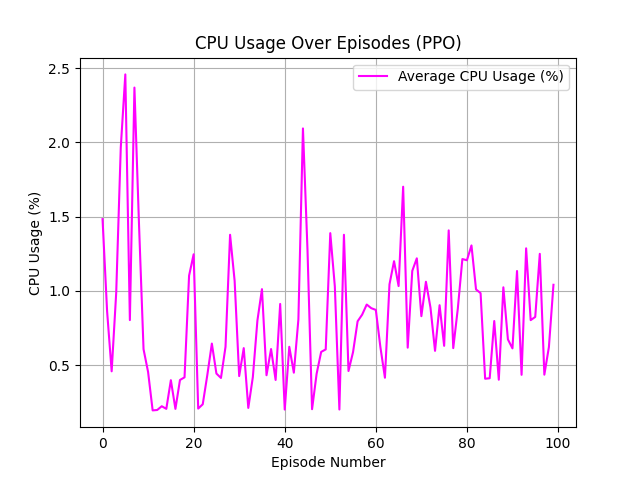
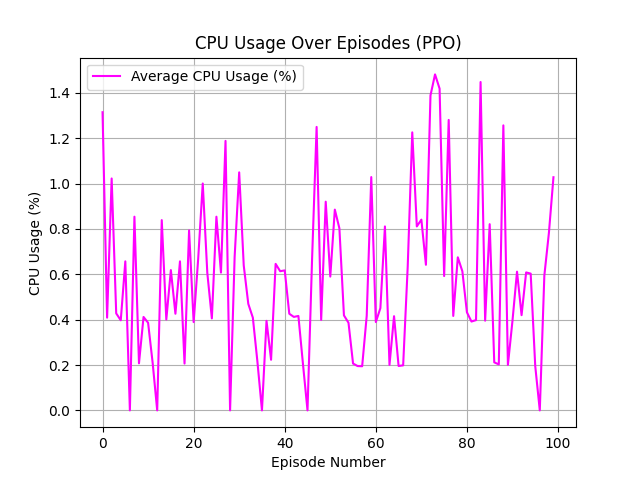
add stats box to plots

diff --git a/plot_results.py b/plot_results.py
@@ -1,9 +1,12 @@
 import matplotlib.pyplot as plt
 import os
+import numpy as np
 
-def plot_results(episodes, max_deviations, avg_deviations, max_response_times, avg_response_times,
-                 max_gimbal_smoothness, avg_gimbal_smoothness, max_throttle_smoothness,
-                 avg_throttle_smoothness, avg_cpu_usages, time_taken_to_land, model_type, landing_successes):
+def plot_results(episodes, max_deviations, avg_deviations, min_deviations,
+                 max_response_times, avg_response_times, min_response_times,
+                 max_gimbal_smoothness, avg_gimbal_smoothness, min_gimbal_smoothness,
+                 max_throttle_smoothness, avg_throttle_smoothness, min_throttle_smoothness,
+                 avg_cpu_usages, time_taken_to_land, model_type, landing_successes):
     """
     Plot the results of the evaluation for either PPO or FSM models.
 
@@ -11,12 +14,16 @@ def plot_results(episodes, max_deviations, avg_deviations, max_response_times, a
     - episodes: List of episode numbers.
     - max_deviations: List of maximum angle deviations per episode.
     - avg_deviations: List of average angle deviations per episode.
-    - max_response_times: List of maximum response times for each episode.
-    - avg_response_times: List of average response times for each episode.
+    - min_deviations: List of minimum angle deviations per episode.
+    - max_response_times: List of maximum response times per episode.
+    - avg_response_times: List of average response times per episode.
+    - min_response_times: List of minimum response times per episode.
     - max_gimbal_smoothness: List of maximum gimbal changes per episode.
     - avg_gimbal_smoothness: List of average gimbal changes per episode.
+    - min_gimbal_smoothness: List of minimum gimbal changes per episode.
     - max_throttle_smoothness: List of maximum throttle changes per episode.
     - avg_throttle_smoothness: List of average throttle changes per episode.
+    - min_throttle_smoothness: List of minimum throttle changes per episode.
     - avg_cpu_usages: List of average CPU usage percentages per episode.
     - time_taken_to_land: List of time taken to land per episode.
     - model_type: String specifying the model type ('PPO' or 'FSM').
@@ -30,53 +37,82 @@ def plot_results(episodes, max_deviations, avg_deviations, max_response_times, a
     title_suffix = f'Over Episodes ({model_type})'
     max_label_prefix = 'Max' if model_type == 'FSM' else 'Max'
     avg_label_prefix = 'Average'
+    min_label_prefix = 'Min'
 
     # Plotting stability over episodes
     plt.figure()
     plt.plot(episodes, max_deviations, label=f'{max_label_prefix} Angle Deviation Used During Episode', color='red')
     plt.plot(episodes, avg_deviations, label=f'{avg_label_prefix} Angle Deviation', color='blue')
+    plt.plot(episodes, min_deviations, label=f'{min_label_prefix} Angle Deviation Used During Episode', color='green')
     plt.title(f'Rocket Stability {title_suffix}')
     plt.xlabel('Episode Number')
     plt.ylabel('Angle Deviation (radians)')
     plt.grid(True)
     plt.legend()
-    plt.savefig(os.path.join(output_dir, 'stability_max_avg_over_episodes.png'))
+    plt.savefig(os.path.join(output_dir, 'stability_max_avg_min_over_episodes.png'))
+
+    # Adding statistics box
+    stats_text = (f'Mean: {np.mean(avg_deviations):.2f}\n'
+                  f'Standard Deviation: {np.std(avg_deviations):.2f}\n'
+                  f'Variance: {np.var(avg_deviations):.2f}')
+    plt.gcf().text(0.15, 0.7, stats_text, bbox=dict(facecolor='white', alpha=0.5))
     plt.show()
 
     # Plotting response time over episodes
     plt.figure()
     plt.plot(episodes, max_response_times, label=f'{max_label_prefix} Response Time Used During Episode', color='orange')
     plt.plot(episodes, avg_response_times, label=f'{avg_label_prefix} Response Time', color='green')
+    plt.plot(episodes, min_response_times, label=f'{min_label_prefix} Response Time Used During Episode', color='blue')
     plt.title(f'Rocket Response Time {title_suffix}')
     plt.xlabel('Episode Number')
     plt.ylabel('Response Time (seconds)')
     plt.grid(True)
     plt.legend()
-    plt.savefig(os.path.join(output_dir, 'response_time_max_avg_over_episodes.png'))
+    plt.savefig(os.path.join(output_dir, 'response_time_max_avg_min_over_episodes.png'))
+
+    # Adding statistics box
+    stats_text = (f'Mean: {np.mean(avg_response_times):.2f}\n'
+                  f'Standard Deviation: {np.std(avg_response_times):.2f}\n'
+                  f'Variance: {np.var(avg_response_times):.2f}')
+    plt.gcf().text(0.15, 0.7, stats_text, bbox=dict(facecolor='white', alpha=0.5))
     plt.show()
 
     # Plotting gimbal smoothness over episodes
     plt.figure()
     plt.plot(episodes, max_gimbal_smoothness, label=f'{max_label_prefix} Gimbal Angle Used During Episode (radians)', color='purple')
     plt.plot(episodes, avg_gimbal_smoothness, label=f'{avg_label_prefix} Change in Gimbal Angle (radians)', color='cyan')
+    plt.plot(episodes, min_gimbal_smoothness, label=f'{min_label_prefix} Gimbal Angle Used During Episode (radians)', color='green')
     plt.title(f'Rocket Gimbal Control Smoothness {title_suffix}')
     plt.xlabel('Episode Number')
     plt.ylabel('Change in Gimbal Angle (radians)')
     plt.grid(True)
     plt.legend()
-    plt.savefig(os.path.join(output_dir, 'gimbal_smoothness_max_avg_over_episodes.png'))
+    plt.savefig(os.path.join(output_dir, 'gimbal_smoothness_max_avg_min_over_episodes.png'))
+
+    # Adding statistics box
+    stats_text = (f'Mean: {np.mean(avg_gimbal_smoothness):.2f}\n'
+                  f'Standard Deviation: {np.std(avg_gimbal_smoothness):.2f}\n'
+                  f'Variance: {np.var(avg_gimbal_smoothness):.2f}')
+    plt.gcf().text(0.15, 0.7, stats_text, bbox=dict(facecolor='white', alpha=0.5))
     plt.show()
 
     # Plotting throttle smoothness over episodes
     plt.figure()
     plt.plot(episodes, max_throttle_smoothness, label=f'{max_label_prefix} Throttle Setting Used During Episode', color='brown')
     plt.plot(episodes, avg_throttle_smoothness, label=f'{avg_label_prefix} Change in Throttle Setting', color='orange')
+    plt.plot(episodes, min_throttle_smoothness, label=f'{min_label_prefix} Throttle Setting Used During Episode', color='green')
     plt.title(f'Rocket Throttle Control Smoothness {title_suffix}')
     plt.xlabel('Episode Number')
     plt.ylabel('Change in Throttle Setting')
     plt.grid(True)
     plt.legend()
-    plt.savefig(os.path.join(output_dir, 'throttle_smoothness_max_avg_over_episodes.png'))
+    plt.savefig(os.path.join(output_dir, 'throttle_smoothness_max_avg_min_over_episodes.png'))
+
+    # Adding statistics box
+    stats_text = (f'Mean: {np.mean(avg_throttle_smoothness):.2f}\n'
+                  f'Standard Deviation: {np.std(avg_throttle_smoothness):.2f}\n'
+                  f'Variance: {np.var(avg_throttle_smoothness):.2f}')
+    plt.gcf().text(0.15, 0.7, stats_text, bbox=dict(facecolor='white', alpha=0.5))
     plt.show()
 
     # Plotting CPU usage over episodes
@@ -88,6 +124,12 @@ def plot_results(episodes, max_deviations, avg_deviations, max_response_times, a
     plt.grid(True)
     plt.legend()
     plt.savefig(os.path.join(output_dir, 'cpu_usage_over_episodes.png'))
+
+    # Adding statistics box
+    stats_text = (f'Mean: {np.mean(avg_cpu_usages):.2f}\n'
+                  f'Standard Deviation: {np.std(avg_cpu_usages):.2f}\n'
+                  f'Variance: {np.var(avg_cpu_usages):.2f}')
+    plt.gcf().text(0.15, 0.7, stats_text, bbox=dict(facecolor='white', alpha=0.5))
     plt.show()
 
     # Plotting time taken to land over episodes
@@ -99,6 +141,12 @@ def plot_results(episodes, max_deviations, avg_deviations, max_response_times, a
     plt.grid(True)
     plt.legend()
     plt.savefig(os.path.join(output_dir, 'time_taken_to_land_over_episodes.png'))
+
+    # Adding statistics box
+    stats_text = (f'Mean: {np.mean(time_taken_to_land):.2f}\n'
+                  f'Standard Deviation: {np.std(time_taken_to_land):.2f}\n'
+                  f'Variance: {np.var(time_taken_to_land):.2f}')
+    plt.gcf().text(0.15, 0.7, stats_text, bbox=dict(facecolor='white', alpha=0.5))
     plt.show()
 
     # Plotting landing successes and failures

diff --git a/eval_ppo.py b/eval_ppo.py
@@ -35,12 +35,16 @@ def evaluate_ppo_model(num_episodes=100):
     episodes = []
     max_deviations = []  # List to store the maximum deviations for each episode
     avg_deviations = []  # List to store the average deviations for each episode
+    min_deviations = []  # List to store the minimum deviations for each episode
     max_response_times = []  # List to store the maximum response times for each episode
     avg_response_times = []  # List to store the average response times for each episode
+    min_response_times = []  # List to store the minimum response times for each episode
     max_gimbal_angles = []  # List to store the maximum gimbal angles for each episode
     avg_gimbal_angles = []  # List to store the average gimbal angles for each episode
+    min_gimbal_angles = []  # List to store the minimum gimbal angles for each episode
     max_throttle_settings = []  # List to store the maximum throttle settings for each episode
     avg_throttle_settings = []  # List to store the average throttle settings for each episode
+    min_throttle_settings = []  # List to store the minimum throttle settings for each episode
     avg_cpu_usages = []  # List to store average CPU usage for each episode
     time_taken_to_land = []  # List to store the time taken to land in seconds for each episode
     landing_successes = []  # List to store landing success for each episode
@@ -112,44 +116,55 @@ def evaluate_ppo_model(num_episodes=100):
         # Record landing success
         landing_successes.append(landed)
 
-        # Record the max and average deviations for the episode
+        # Record the max, min, and average deviations for the episode
         max_deviation = max(episode_deviations)
         avg_deviation = np.mean(episode_deviations)
+        min_deviation = min(episode_deviations)
         max_deviations.append(max_deviation)
         avg_deviations.append(avg_deviation)
+        min_deviations.append(min_deviation)
 
-        # Record the max and average response times for the episode
+        # Record the max, min, and average response times for the episode
         if episode_response_times:
             max_response_time = max(episode_response_times)
             avg_response_time = np.mean(episode_response_times)
+            min_response_time = min(episode_response_times)
         else:
             max_response_time = 0
             avg_response_time = 0
+            min_response_time = 0
 
         max_response_times.append(max_response_time)
         avg_response_times.append(avg_response_time)
+        min_response_times.append(min_response_time)
 
-        # Record the max and average gimbal angles for the episode
+        # Record the max, min, and average gimbal angles for the episode
         if episode_gimbal_angles:
             max_gimbal_angle = max(episode_gimbal_angles)
             avg_gimbal_angle = np.mean(episode_gimbal_angles)
+            min_gimbal_angle = min(episode_gimbal_angles)
         else:
             max_gimbal_angle = 0
             avg_gimbal_angle = 0
+            min_gimbal_angle = 0
 
         max_gimbal_angles.append(max_gimbal_angle)
         avg_gimbal_angles.append(avg_gimbal_angle)
+        min_gimbal_angles.append(min_gimbal_angle)
 
-        # Record the max and average throttle settings for the episode
+        # Record the max, min, and average throttle settings for the episode
         if episode_throttle_settings:
             max_throttle_setting = max(episode_throttle_settings)
             avg_throttle_setting = np.mean(episode_throttle_settings)
+            min_throttle_setting = min(episode_throttle_settings)
         else:
             max_throttle_setting = 0
             avg_throttle_setting = 0
+            min_throttle_setting = 0
 
         max_throttle_settings.append(max_throttle_setting)
         avg_throttle_settings.append(avg_throttle_setting)
+        min_throttle_settings.append(min_throttle_setting)
 
         # Record the average CPU usage for the episode
         avg_cpu_usages.append(np.mean(cpu_usages))
@@ -166,12 +181,16 @@ def evaluate_ppo_model(num_episodes=100):
         episodes=episodes,
         max_deviations=max_deviations,
         avg_deviations=avg_deviations,
+        min_deviations=min_deviations,
         max_response_times=max_response_times,
         avg_response_times=avg_response_times,
+        min_response_times=min_response_times,
         max_gimbal_smoothness=max_gimbal_angles,  # Plot gimbal angles directly
         avg_gimbal_smoothness=avg_gimbal_angles,  # Plot average gimbal angles
+        min_gimbal_smoothness=min_gimbal_angles,  # Plot minimum gimbal angles
         max_throttle_smoothness=max_throttle_settings,  # Separate throttle settings
         avg_throttle_smoothness=avg_throttle_settings,  # Separate average throttle settings
+        min_throttle_smoothness=min_throttle_settings,  # Separate minimum throttle settings
         avg_cpu_usages=avg_cpu_usages,
         time_taken_to_land=time_taken_to_land,
         model_type='PPO',  # Specify the model type as 'PPO'

diff --git a/eval_fsm.py b/eval_fsm.py
@@ -14,12 +14,16 @@ env = gym.make('RocketLander-v0')
 def evaluate_fsm_stability_response_time_smoothness_and_time(num_episodes=100):
     episodes = []
     max_deviations = []  # List to store the maximum deviations for each episode
+    min_deviations = []  # List to store the minimum deviations for each episode
     avg_deviations = []  # List to store the average deviations for each episode
     max_response_times = []  # List to store the maximum response times for each episode
+    min_response_times = []  # List to store the minimum response times for each episode
     avg_response_times = []  # List to store the average response times for each episode
     max_gimbal_smoothness = []  # List to store the maximum gimbal changes for each episode
+    min_gimbal_smoothness = []  # List to store the minimum gimbal changes for each episode
     avg_gimbal_smoothness = []  # List to store the average gimbal changes for each episode
     max_throttle_smoothness = []  # List to store the maximum throttle changes for each episode
+    min_throttle_smoothness = []  # List to store the minimum throttle changes for each episode
     avg_throttle_smoothness = []  # List to store the average throttle changes for each episode
     avg_cpu_usages = []  # List to store average CPU usage for each episode
     time_taken_to_land = []  # List to store the time taken to land in seconds for each episode
@@ -53,23 +57,31 @@ def evaluate_fsm_stability_response_time_smoothness_and_time(num_episodes=100):
 
         # Analyze the results
         max_deviation = max(metrics['deviations']) if metrics['deviations'] else 0
+        min_deviation = min(metrics['deviations']) if metrics['deviations'] else 0
         avg_deviation = np.mean(metrics['deviations']) if metrics['deviations'] else 0
         max_deviations.append(max_deviation)
+        min_deviations.append(min_deviation)
         avg_deviations.append(avg_deviation)
 
         max_response_time = max(metrics['response_times']) if metrics['response_times'] else 0
+        min_response_time = min(metrics['response_times']) if metrics['response_times'] else 0
         avg_response_time = np.mean(metrics['response_times']) if metrics['response_times'] else 0
         max_response_times.append(max_response_time)
+        min_response_times.append(min_response_time)
         avg_response_times.append(avg_response_time)
 
         max_gimbal_smooth = max(metrics['gimbal_smoothness']) if metrics['gimbal_smoothness'] else 0
+        min_gimbal_smooth = min(metrics['gimbal_smoothness']) if metrics['gimbal_smoothness'] else 0
         avg_gimbal_smooth = np.mean(metrics['gimbal_smoothness']) if metrics['gimbal_smoothness'] else 0
         max_gimbal_smoothness.append(max_gimbal_smooth)
+        min_gimbal_smoothness.append(min_gimbal_smooth)
         avg_gimbal_smoothness.append(avg_gimbal_smooth)
 
         max_throttle_smooth = max(metrics['throttle_smoothness']) if metrics['throttle_smoothness'] else 0
+        min_throttle_smooth = min(metrics['throttle_smoothness']) if metrics['throttle_smoothness'] else 0
         avg_throttle_smooth = np.mean(metrics['throttle_smoothness']) if metrics['throttle_smoothness'] else 0
         max_throttle_smoothness.append(max_throttle_smooth)
+        min_throttle_smoothness.append(min_throttle_smooth)
         avg_throttle_smoothness.append(avg_throttle_smooth)
 
         avg_cpu_usages.append(np.mean([process.cpu_percent(interval=None)]))
@@ -85,12 +97,16 @@ def evaluate_fsm_stability_response_time_smoothness_and_time(num_episodes=100):
     plot_results(
         episodes=episodes,
         max_deviations=max_deviations,
+        min_deviations=min_deviations,
         avg_deviations=avg_deviations,
         max_response_times=max_response_times,
+        min_response_times=min_response_times,
         avg_response_times=avg_response_times,
         max_gimbal_smoothness=max_gimbal_smoothness,
+        min_gimbal_smoothness=min_gimbal_smoothness,
         avg_gimbal_smoothness=avg_gimbal_smoothness,
         max_throttle_smoothness=max_throttle_smoothness,
+        min_throttle_smoothness=min_throttle_smoothness,
         avg_throttle_smoothness=avg_throttle_smoothness,
         avg_cpu_usages=avg_cpu_usages,
         time_taken_to_land=time_taken_to_land,
